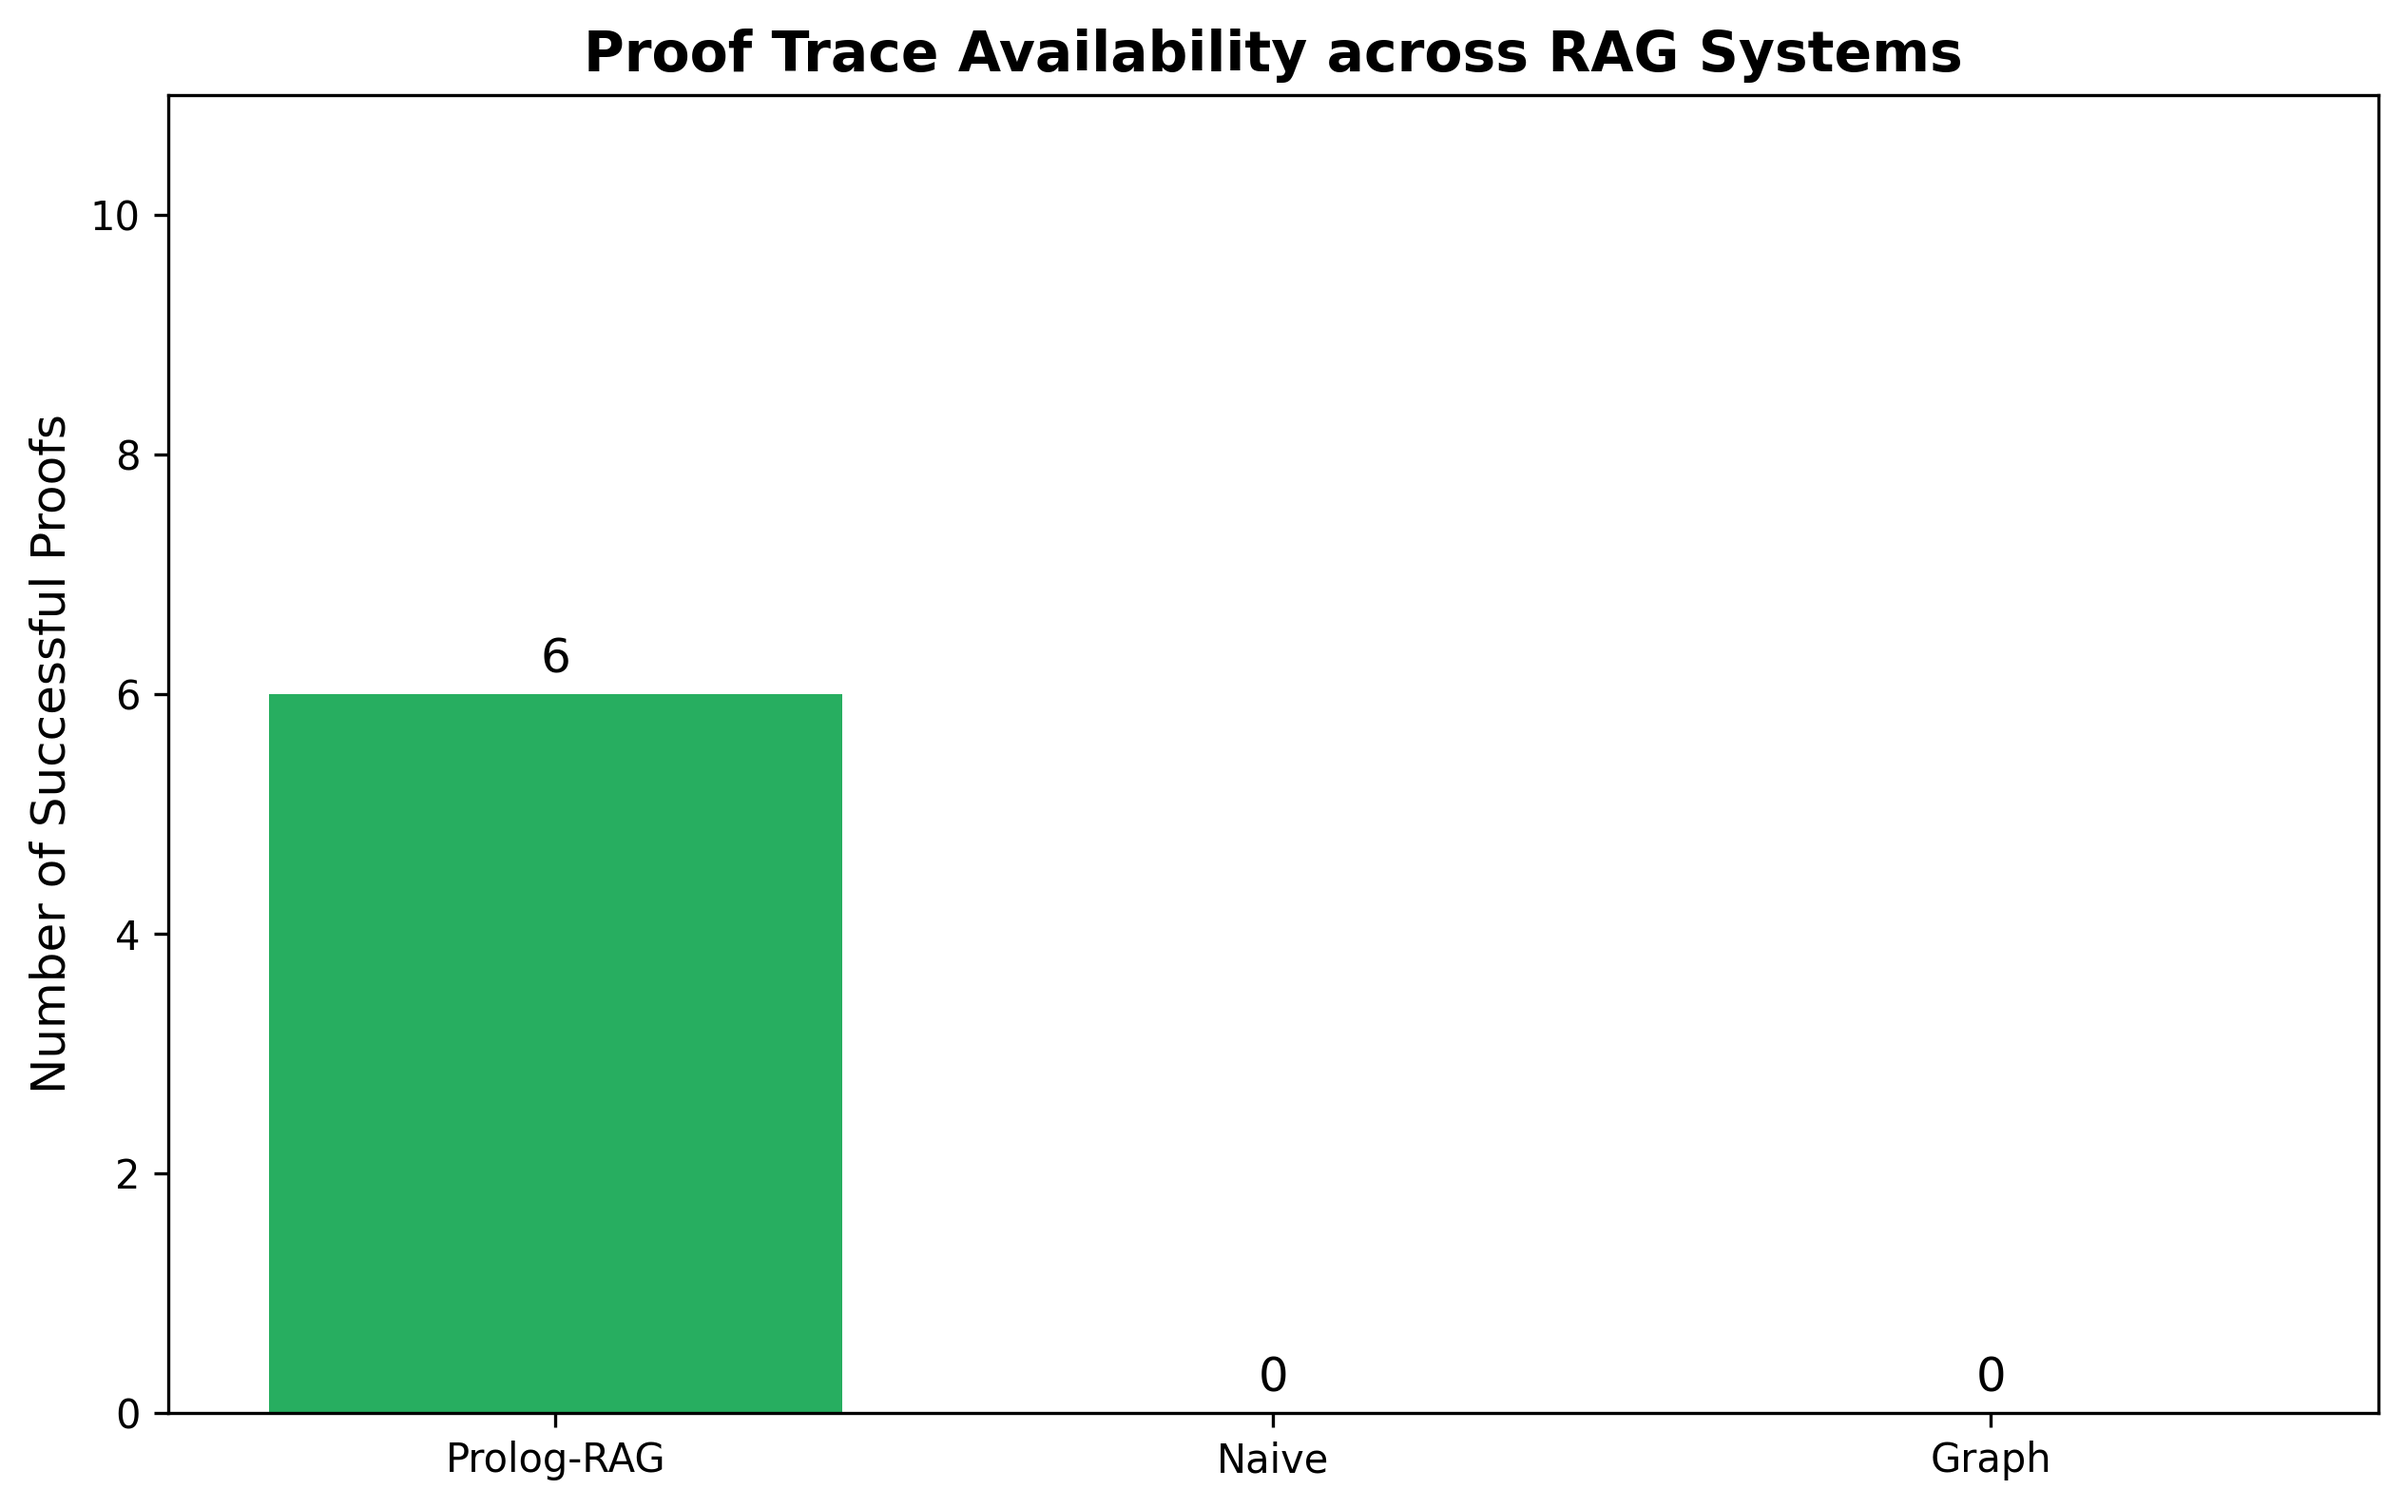
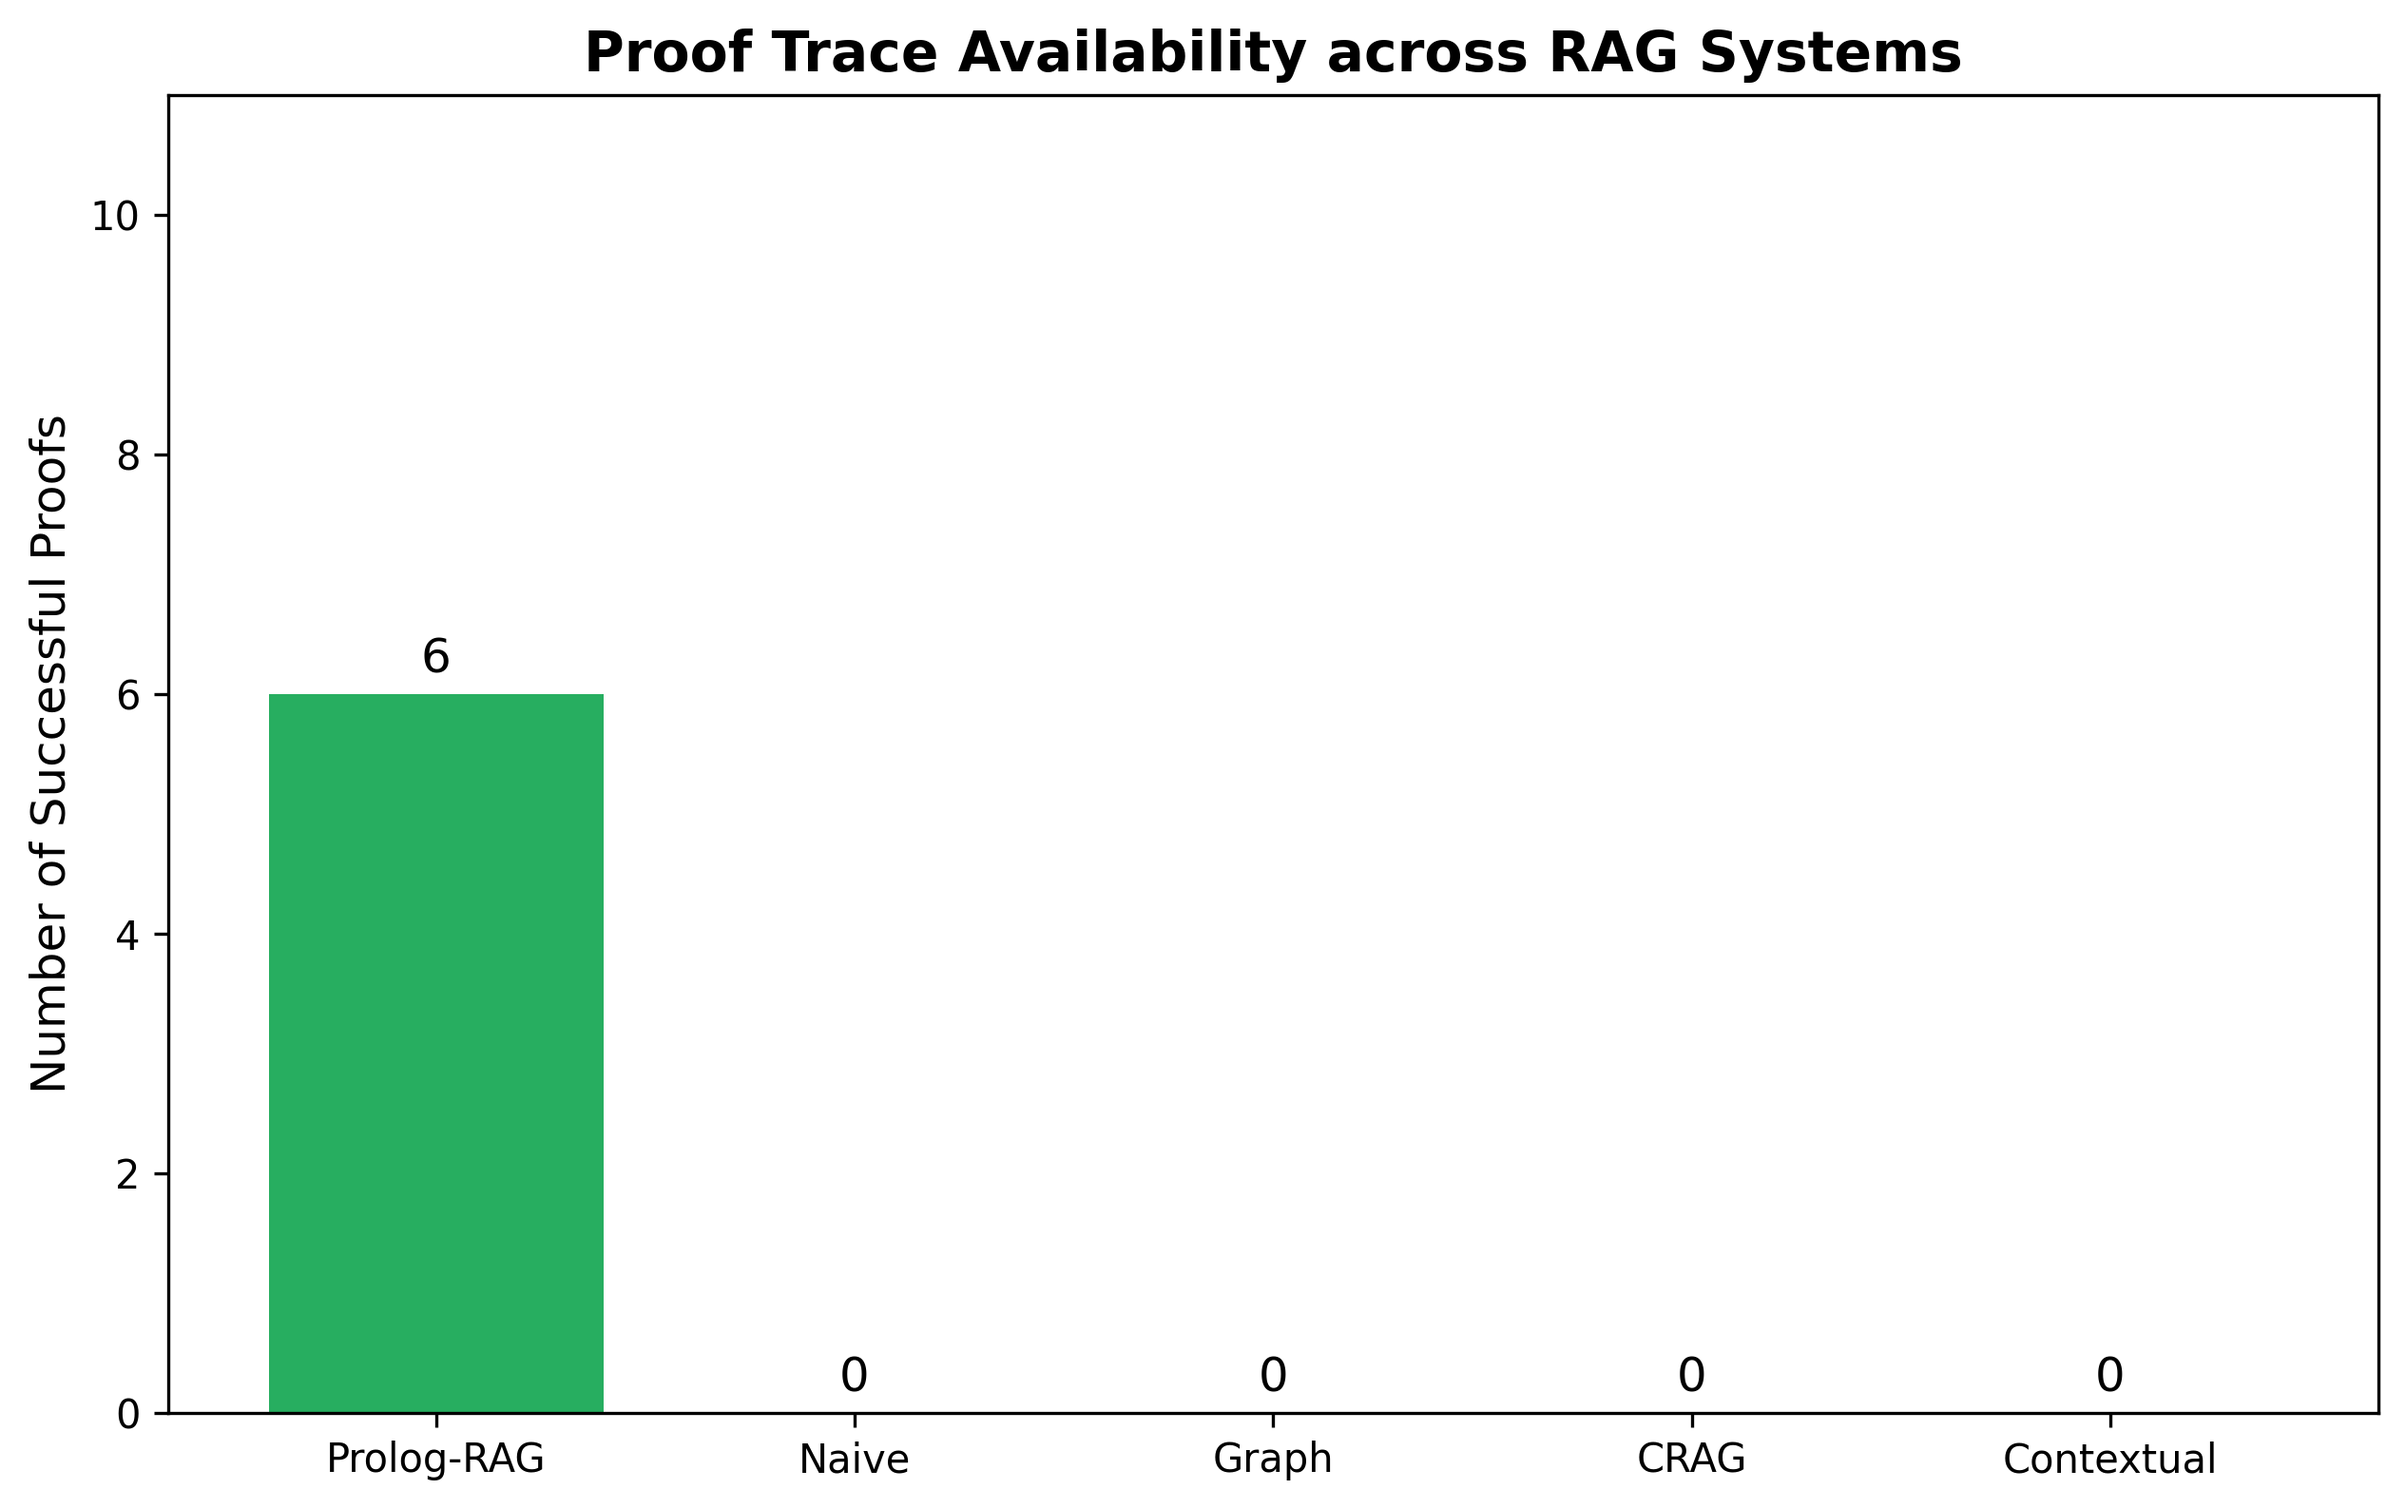
[update] best visualization

diff --git a/prolog_rag_project/utils/visualize_results.py b/prolog_rag_project/utils/visualize_results.py
@@ -17,18 +17,24 @@ def visualize_results(results_file="arena_results.json", output_dir="assets"):
     os.makedirs(output_dir, exist_ok=True)
     
     # Track statistics
-    systems = ["Prolog-RAG", "Naive", "Graph"]
+    systems = ["Prolog-RAG", "Naive", "Graph", "CRAG", "Contextual"]
+    type_performance = {} # format {type: {system: total_score}}
+    
+    # Try to load evaluation scores for 'best' calculation
+    eval_data = {}
+    if os.path.exists("eval_summary.json"):
+        with open("eval_summary.json", 'r') as f:
+            eval_list = json.load(f)
+            eval_data = {q['id']: q['scores'] for q in eval_list}
+
     proof_counts = {s: 0 for s in systems}
     total_times = {s: [] for s in systems}
     
     for q in data:
-        # Some systems might have different names in different versions
-        # Mapping standard names to internal ones
-        mapping = {
-            "Prolog-RAG": "Prolog-RAG",
-            "Naive": "Naive",
-            "Graph": "Graph"
-        }
+        q_id = q.get('id')
+        q_type = q.get('type', 'unknown')
+        if q_type not in type_performance:
+            type_performance[q_type] = {s: 0 for s in systems}
         
         for sys_name in systems:
             # Check for the key in the answers dict
@@ -44,15 +50,37 @@ def visualize_results(results_file="arena_results.json", output_dir="assets"):
             t_sec = ans.get("time_sec", 0)
             total_times[sys_name].append(t_sec * 1000)
 
+            # Performance scoring for 'Best' by Type
+            if q_id in eval_data and sys_name in eval_data[q_id]:
+                score = eval_data[q_id][sys_name].get('accuracy_score', 0)
+                type_performance[q_type][sys_name] += score
+            elif sys_name == "Prolog-RAG" and (ans.get("has_proof") or ans.get("method") == "PROLOG"):
+                # Rough proxy if no eval data: Prolog wins if it has a proof
+                type_performance[q_type][sys_name] += 5
+            else:
+                type_performance[q_type][sys_name] += 1 # Base participation
+
     # Calculate average times
     avg_times_ms = {s: (sum(total_times[s]) / len(total_times[s])) if total_times[s] else 0 for s in systems}
 
     # Print Summary Results to Terminal
-    print("\nREPORT SUMMARY:")
-    print("-" * 30)
+    print("\n" + "="*50)
+    print("REPORT SUMMARY:")
+    print("-" * 50)
     for sys in systems:
-        print(f"{sys:<15} | Proof Traces: {proof_counts[sys]} | Avg Time: {avg_times_ms[sys]:.1f}ms")
-    print("-" * 30)
+        if sys in proof_counts:
+            print(f"{sys:<15} | Proof Traces: {proof_counts[sys]} | Avg Time: {avg_times_ms[sys]:.1f}ms")
+    
+    # Print Performance by Question Type
+    print("\nBEST SYSTEM BY QUESTION TYPE:")
+    print("-" * 50)
+    print(f"{'TYPE':<20} | {'TOP SYSTEM':<15} | {'TOTAL ACC SCORE':<10}")
+    print("-" * 50)
+    for q_type, sys_scores in type_performance.items():
+        # Find system with max score
+        top_sys = max(sys_scores, key=sys_scores.get)
+        print(f"{q_type.upper():<20} | {top_sys:<15} | {sys_scores[top_sys]:<10}")
+    print("="*50 + "\n")
 
     # --- PLOT 1: Proof Trace Availability ---
     plt.figure(figsize=(10, 6))
